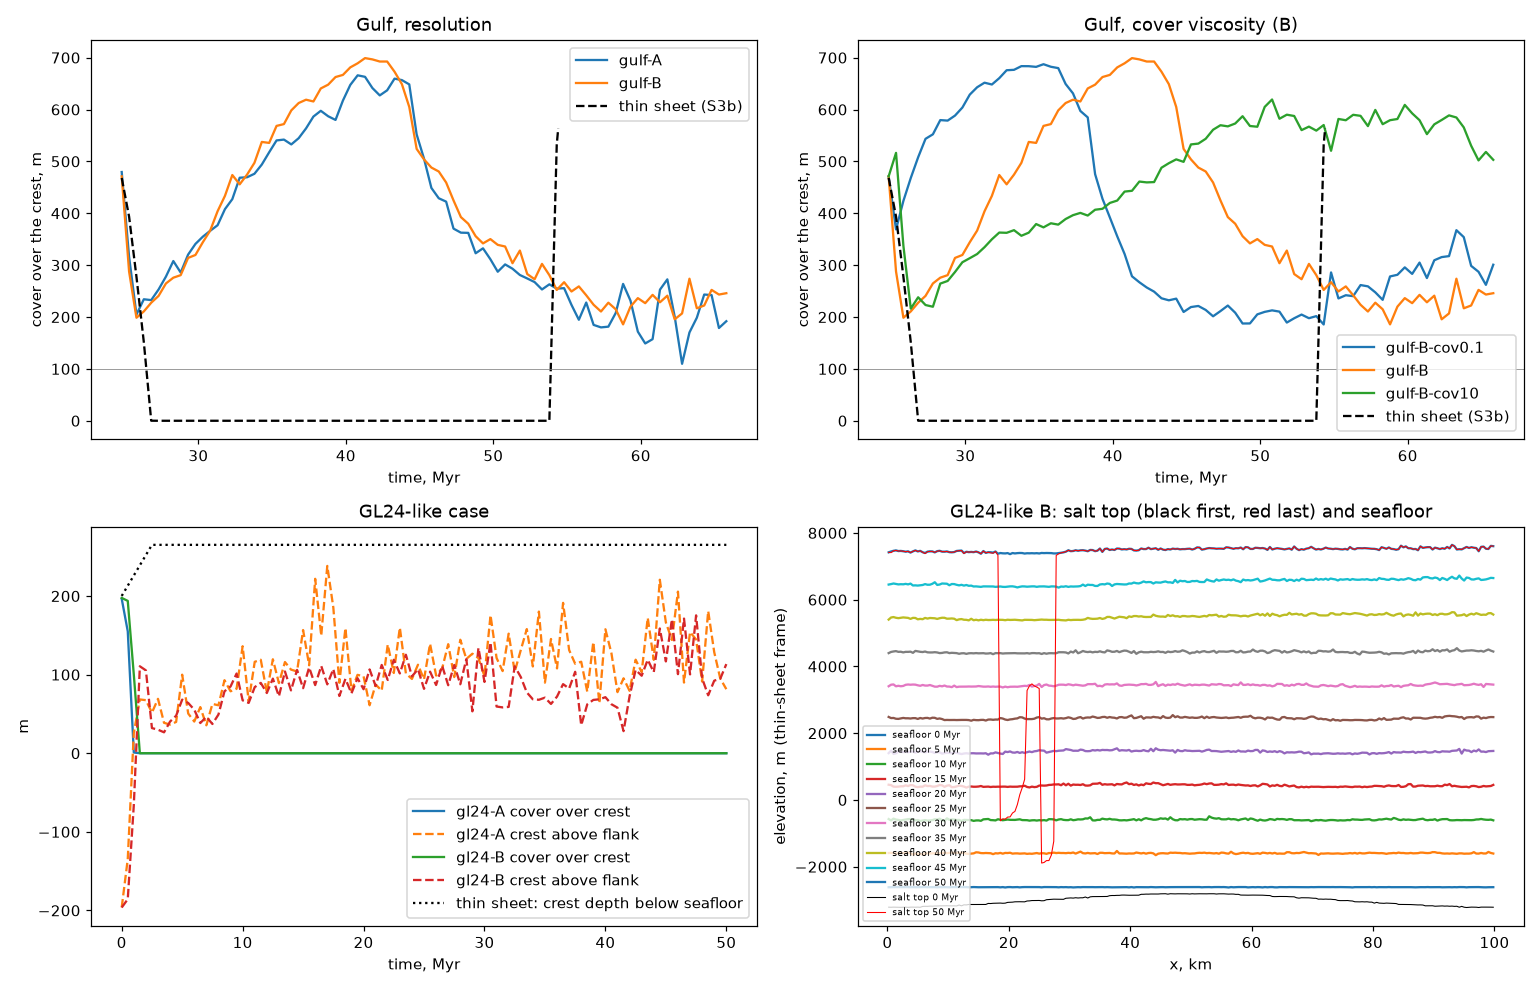
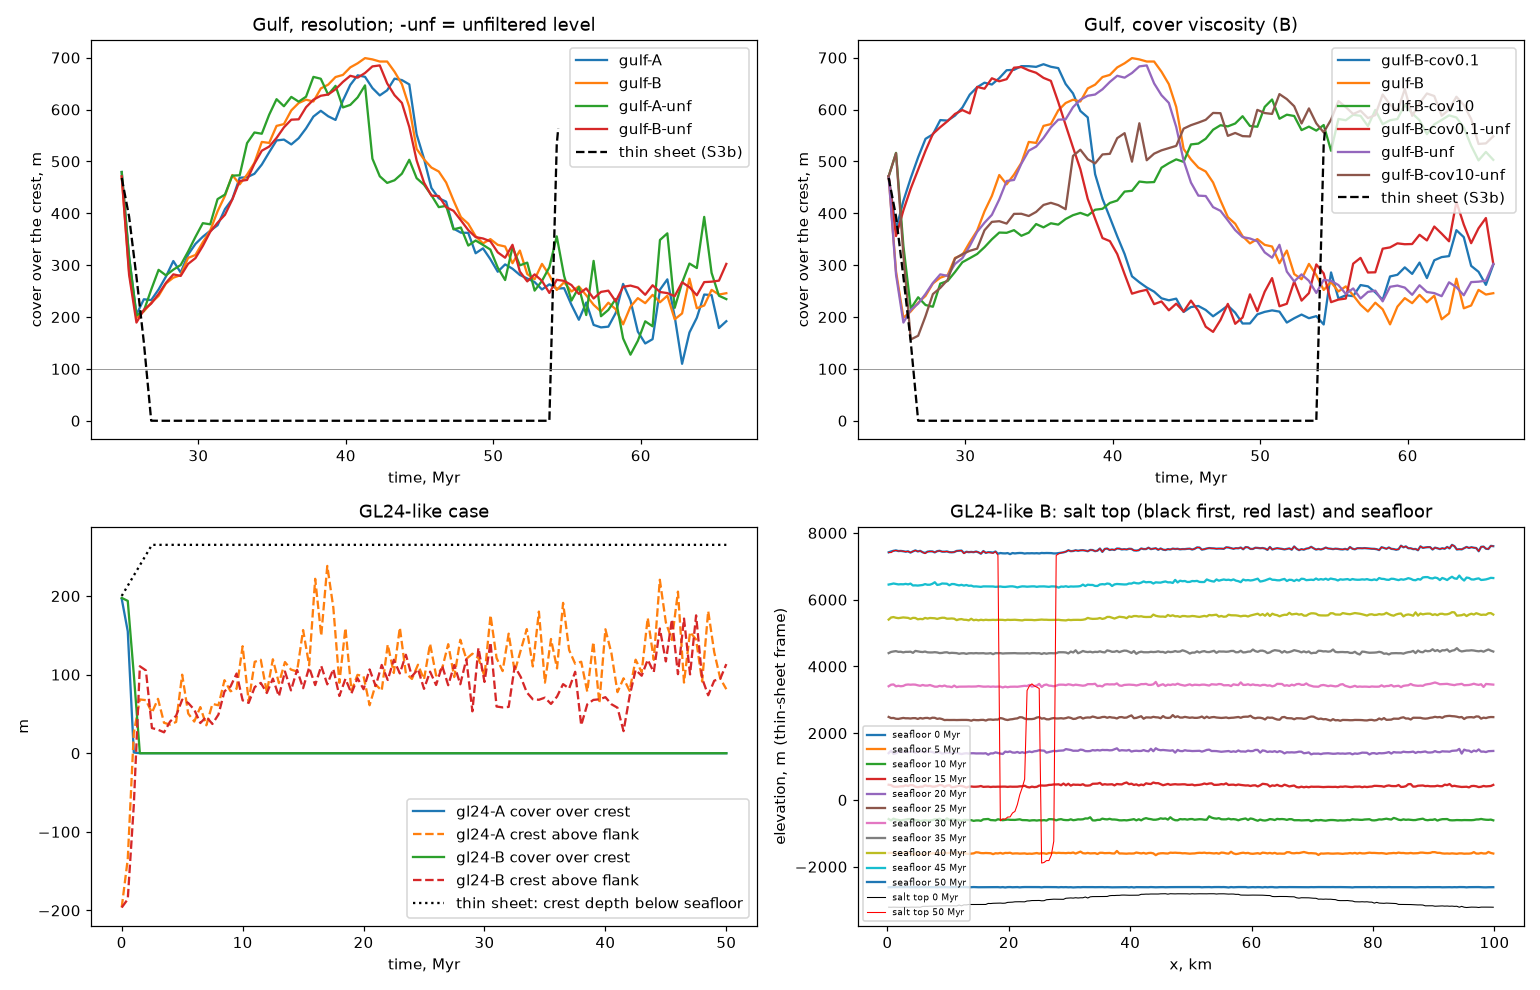
feat(spike-004): unfiltered-level reruns, thin-sheet vs Stokes table, answer and M3b C/D recommendation

diff --git a/spikes/004-stokes-check/table.js b/spikes/004-stokes-check/table.js
@@ -1,0 +1,30 @@
+// Table for the README: cover over the tracked crest (m), thin sheet vs Stokes runs, at chosen times.  node table.js
+const fs = require('fs'), path = require('path'), os = require('os');
+const SCR = process.env.S4_SCRATCH || path.join(os.tmpdir(), 'strata-s4');
+const load = (n) => { const p = path.join(SCR, 'out-' + n + '.json'); return fs.existsSync(p) ? JSON.parse(fs.readFileSync(p)) : null; };
+const times = [24.8, 26.8, 30, 40, 50, 54, 60, 66];
+const C = require('../003-passive-diapir/s4-case.json').decisiveCase;
+const near = (series, t, key) => { const r = series.reduce((b, q) => (Math.abs(q.tMyr - t) < Math.abs(b.tMyr - t) ? q : b)); return Math.abs(r.tMyr - t) <= 0.3 ? r[key] : null; };
+const f = (v) => (v === null || v === undefined ? '-' : Math.round(v));
+const groups = [
+  ['Gulf, filtered level, cover x1', ['gulf-A', 'gulf-B']],
+  ['Gulf, UNFILTERED level, cover x1', ['gulf-A-unf', 'gulf-B-unf']],
+  ['Gulf, filtered level, cover x10', ['gulf-A-cov10', 'gulf-B-cov10']],
+  ['Gulf, UNFILTERED level, cover x10', ['gulf-A-cov10-unf', 'gulf-B-cov10-unf']],
+  ['Gulf, filtered level, cover x0.1', ['gulf-A-cov0.1', 'gulf-B-cov0.1']],
+  ['Gulf, UNFILTERED level, cover x0.1', ['gulf-A-cov0.1-unf', 'gulf-B-cov0.1-unf']],
+];
+console.log('| run | ' + times.join(' | ') + ' | min cover 26-66 Myr | first t cover<50 | burial t |');
+console.log('|' + '---|'.repeat(times.length + 4));
+console.log('| thin sheet | ' + times.map((t) => f(near(C.aggradationHistory.series, t, 'coverM'))).join(' | ') + ' | 0 | 26.8 | 54.3 |');
+for (const [title, names] of groups) {
+  console.log('| **' + title + '** |' + ' |'.repeat(times.length + 3));
+  for (const n of names) {
+    const o = load(n); if (!o) { console.log('| ' + n + ' | missing |'); continue; }
+    const s = o.series, last = s[s.length - 1].tMyr;
+    const mid = s.filter((r) => r.tMyr >= 26 && r.coverM !== undefined);
+    const minc = Math.min(...mid.map((r) => r.coverM)), minz = Math.min(...mid.map((r) => r.zoneMinCoverM));
+    const a = o.analysis;
+    console.log('| ' + n + ' ' + o.cfg.nx + 'x' + o.cfg.ny + ' | ' + times.map((t) => (t > last + 0.3 ? '-' : f(near(s, t, 'coverM')))).join(' | ') + ' | ' + f(minc) + ' (zone ' + f(minz) + ') | ' + (a.tExposedMyr ?? 'none') + ' | ' + (a.tBuriedMyr ?? 'none') + ' |');
+  }
+}

diff --git a/spikes/004-stokes-check/runall-unf.js b/spikes/004-stokes-check/runall-unf.js
@@ -1,0 +1,12 @@
+'use strict';
+// Launch the unfiltered-level Gulf runs in parallel: node runall-unf.js  (sets S4_UNFILT=1, tag -unf)
+const { spawn } = require('child_process');
+const path = require('path');
+const SCR = process.env.S4_SCRATCH || path.join(require('os').tmpdir(), 'strata-s4');
+const jobs = [['A', '1'], ['B', '1'], ['A', '10'], ['B', '10'], ['A', '0.1'], ['B', '0.1']];
+let left = jobs.length;
+for (const [r, cf] of jobs) {
+  const out = require('fs').openSync(path.join(SCR, `run_unf_${r}_${cf}.txt`), 'w');
+  const p = spawn(process.execPath, [path.join(__dirname, 'cases.js'), 'gulf', r, cf], { env: { ...process.env, S4_UNFILT: '1', S4_TAG: '-unf', S4_SCRATCH: SCR }, stdio: ['ignore', out, out] });
+  p.on('exit', (c) => { console.log('done', r, cf, 'exit', c); if (--left === 0) console.log('all done'); });
+}

diff --git a/spikes/004-stokes-check/cases.js b/spikes/004-stokes-check/cases.js
@@ -46,7 +46,7 @@ function gulfCase(res, coverFactor) {
   const lev = fr.frames.map((f) => {
     const drop = b0 - f.b.slice(colIdx0, colIdx1 + 1).reduce((s, v) => s + v, 0) / cols.length;
     const out = [];
-    for (let i = colIdx0; i <= colIdx1; i++) { const w = []; for (let q = Math.max(0, i - 5); q <= Math.min(f.H.length - 1, i + 5); q++) w.push(f.H[q]); out.push(median(w) + drop); }
+    for (let i = colIdx0; i <= colIdx1; i++) { const w = []; for (let q = Math.max(0, i - 5); q <= Math.min(f.H.length - 1, i + 5); q++) w.push(f.H[q]); out.push((process.env.S4_UNFILT ? f.H[i] : median(w)) + drop); }   // S4_UNFILT=1: level is the raw thin-sheet seafloor (no median filter)
     return { t: f.tMyr, z: out, drop };
   });
   let zmax = -1e9, zmin = 1e9;

diff --git a/spikes/004-stokes-check/plot.py b/spikes/004-stokes-check/plot.py
@@ -11,7 +11,7 @@ def load(n):
 fig, ax = plt.subplots(2, 2, figsize=(14, 9))
 # Gulf: cover over the crest and relief
 g = load('gulf-B') or load('gulf-A')
-for k, (names, title) in enumerate([(['gulf-A', 'gulf-B'], 'Gulf, resolution'), (['gulf-B-cov0.1', 'gulf-B', 'gulf-B-cov10'], 'Gulf, cover viscosity (B)')]):
+for k, (names, title) in enumerate([(['gulf-A', 'gulf-B', 'gulf-A-unf', 'gulf-B-unf'], 'Gulf, resolution; -unf = unfiltered level'), (['gulf-B-cov0.1', 'gulf-B', 'gulf-B-cov10', 'gulf-B-cov0.1-unf', 'gulf-B-unf', 'gulf-B-cov10-unf'], 'Gulf, cover viscosity (B)')]):
     a = ax[0][k]
     for n in names:
         o = load(n)

diff --git a/spikes/004-stokes-check/README.md b/spikes/004-stokes-check/README.md
@@ -12,8 +12,8 @@ from about 26.8 to 54 Myr and then buried? Everything here is offline node, neve
 - `dump_start.js`  runs the plain Gulf run of spike 003 (`gulfParams({exposed: 1})`, the run `s4-case.json` comes from) to tNear = 24.8 Myr
   and writes `start-gulf.json` (the shared starting state: basement, salt, seafloor, cover per column). It also writes a forcing file
   (seafloor and basement every 0.1 Myr) to the scratch folder, not committed.
-- `cases.js`  the two cases. `node cases.js gulf A|B [coverViscosityFactor]`, `node cases.js gl24 A|B`. Env: S4_SCRATCH, S4_CFL, S4_ETAW, S4_TEND, S4_MAXMIN, S4_TAG.
-- `summary.js`, `cmp.js`, `ser.js`, `plot.py` (needs matplotlib, `uv run --with matplotlib python plot.py`), `results-summary.txt`, `s4-stokes-check.png`.
+- `cases.js`  the two cases. `node cases.js gulf A|B [coverViscosityFactor]`, `node cases.js gl24 A|B`. Env: S4_SCRATCH, S4_CFL, S4_ETAW, S4_TEND, S4_MAXMIN, S4_TAG, S4_UNFILT (1 = raw thin-sheet seafloor as the sediment level, no median filter; `runall-unf.js` launches the six unfiltered Gulf runs).
+- `table.js` (the thin-sheet-against-Stokes table, output in `table-gulf.md`), `summary.js`, `cmp.js`, `ser.js`, `plot.py` (needs matplotlib, `uv run --with matplotlib python plot.py`), `results-summary.txt`, `s4-stokes-check.png`.
 
 ## Benchmarks (all pass, 12/12)
 
@@ -41,32 +41,127 @@ the sediment level. Sediment is never removed, and sediment density is Athy comp
 
 ## Results
 
-Cover over the tracked crest (m). The thin-sheet run says 0 m from 26.8 to 54 Myr (exposed), then about 560 m.
+All Gulf numbers below are the cover over the tracked crest (m of cover between the salt top and the seafloor at the crest), every
+run starting from the same 24.8 Myr section. "Filtered" is the first sedimentation law (11-column median of the thin-sheet seafloor);
+"UNFILTERED" is the thin-sheet seafloor itself as the sediment level (`S4_UNFILT=1`), the check asked for in review. A and B are the two
+resolutions (A 180x38 cells, dx 500 m, dy 250 m; B 270x57 cells, dx 333 m, dy 167 m). The thin-sheet series stops at 54.8 Myr in the
+case file, so 60 and 66 Myr are blank for it (the thin sheet is buried at about 560 m by then). Exposed means cover under 50 m, burial
+means cover over 100 m for 3 consecutive records after exposure (same rule as S3b). The "min cover" column is the smallest cover over
+the crest between 26 and 66 Myr; in brackets the smallest salt cover anywhere in the 262-285 km crest zone.
 
-Gulf, cover viscosity 1e18 as in the case file (rows: grid A 180x38, B 270x57):
-- both resolutions agree: cover drops to about 200-230 m at 26 Myr, rises to about 670-700 m at 40-43 Myr (the crest is pushed down relative to the seafloor), then falls to about 250 m by 54 Myr and stays 200-250 m to 66 Myr.
-- cover never falls below 110 m in the crest zone (minimum over the A run) or 184 m (B). No exposure at any time in the central cases.
-- Changing the advection Courant number from 0.5 to 1 gives the same picture with run-to-run scatter of about 50-100 m. The A runs with CFL 2 and 4 are noisier and are not used.
 
-Cover viscosity x10 and x0.1 (A and B): the time of the cover maximum moves (earlier for the weaker cover, later and flatter for the stronger),
-but no run holds exposure. Weak cover (x0.1, A) shows a brief exposure only at 60.3-61.3 Myr; strong cover (x10) touches exposure only at the end (60.8-61.3 Myr in the crest zone). These end-of-run touches are not stable between A and B, so treat them as noise.
+Reading the table:
 
-Salt area drift over the runs: 0.1 to 1.3 % (markers, free surface, reseeding), well below the effects reported.
+- No Stokes run holds the crest exposed. In 11 of 12 runs the cover over the crest never drops below 110 m (the 50 m "exposed" line is
+  not reached). The one exception is the filtered x0.1 A run: it touches 36 m in the crest zone and is flagged exposed at 60.3 to 61.3 Myr;
+  the B run at the same settings and both unfiltered x0.1 runs do not. The x10 runs show brief shallow touches somewhere in the crest zone
+  at the very end (filtered runs, zone minimum 19 to 30 m; unfiltered A 32 m; not at the tracked crest). I treat these as noise (see scatter below), not as exposure.
+- The thin sheet has 0 m from 26.8 to 54 Myr; Stokes has 225 to 255 m at 26.8 Myr, 310 to 360 m at 30 Myr and 600 to 670 m at 40 Myr
+  (cover viscosity x1, both level laws). There is a real burial peak near 40 Myr that the thin sheet does not have.
+- Unfiltered level versus median-filtered level: same picture within the scatter (min cover 127 to 214 m unfiltered against 110 to 186 m
+  filtered; cover at 40 Myr 604 to 653 m against 617 to 667 m). The median filter is not what buries the crest.
+- Resolution scatter, stated plainly. A and B disagree by up to 100 m for cover x1 (for example 172 against 236 m at 60 Myr, filtered),
+  by up to 220 to 280 m for cover x10 (filtered 349 against 567 m at 50 Myr, 345 against 609 m at 60 Myr) and by up to 230 m for x0.1
+  (filtered 62 against 296 m at 60 Myr). Changing the advection Courant number (0.5 to 1, run A) moves records by 50 to 100 m. So
+  individual values are good to about +-100 to 250 m and the timing of the cover peak moves with cover viscosity and run; the
+  conclusion is the absence of exposure, not any single number.
+- Finer grid does not make the crest shallower: the minimum cover goes up from A to B (110 to 186 m filtered, 127 to 214 m unfiltered). So
+  the 50 m threshold, which is smaller than one B cell (167 m), is not the reason exposure is missing; resolution would make B shallower
+  than A if it were.
+- Salt area drift over the Gulf runs: -0.2 to +1.3 %, small beside the 100 to 600 m effects.
+- Run times: A 14 to 19 min; B 81 to 119 min for the unfiltered runs (six runs sharing the PC) and 45 to 53 min for the filtered B runs
+  (fewer parallel jobs). The card's one hour guide was exceeded by the unfiltered B runs because of that sharing.
 
-GL24-like case (down-building, 200 m/Myr, 100 km box): the Stokes runs do not reproduce the thin-sheet crest depth of 265 m below the seafloor
-(thin-sheet). In Stokes the salt reaches the seafloor by about 1 Myr and stays there with a crest 30-230 m above the flank, with strong scatter between records
-(A 200x52, B 250x65). This case is a sanity check only; its set-up (initial salt thickness, how the level is placed) is mine and not yet checked against GL24.
+### Table: cover over the tracked crest (m), thin sheet against Stokes
 
-## Verdict (provisional, see open questions)
+Burial time is by the S3b rule (exposed at cover under 50 m, then buried at cover over 100 m for 3 records); "none" means the crest was never exposed.
 
-The thin-sheet "exposed from 26.8 to 54 Myr" is not supported by the Stokes run: the Stokes crest stays buried under 110-700 m of cover, with a
-burial peak near 40 Myr that the thin sheet does not have. The thin-sheet result depends on dropping the cover over the crest to 0 once the
-salt is "extruded" and keeping it there, which in the Stokes run is replaced by lateral viscous flow of cover. That flow is controlled by the
-cover viscosity (a tuned parameter in the case file) and by the 11-column median filter of the sediment level, which I chose.
+| run | 24.8 | 26.8 | 30 | 40 | 50 | 54 | 60 | 66 | min cover 26-66 Myr | first t cover<50 | burial t |
+|---|---|---|---|---|---|---|---|---|---|---|---|
+| thin sheet | 468 | 0 | 0 | 0 | 0 | 0 | - | - | 0 | 26.8 | 54.3 |
+| **Gulf, filtered level, cover x1** | | | | | | | | | | | |
+| gulf-A 180x38 | 480 | 233 | 341 | 617 | 311 | 263 | 172 | 192 | 110 (zone 110) | none | none |
+| gulf-B 270x57 | 471 | 228 | 320 | 667 | 350 | 281 | 236 | 246 | 186 (zone 211) | none | none |
+| **Gulf, UNFILTERED level, cover x1** | | | | | | | | | | | |
+| gulf-A-unf 180x38 | 480 | 253 | 355 | 604 | 330 | 296 | 154 | 235 | 127 (zone 154) | none | none |
+| gulf-B-unf 270x57 | 471 | 226 | 314 | 653 | 346 | 246 | 257 | 302 | 214 (zone 214) | none | none |
+| **Gulf, filtered level, cover x10** | | | | | | | | | | | |
+| gulf-A-cov10 180x38 | 480 | 188 | 311 | 356 | 349 | 339 | 345 | 349 | 165 (zone 30) | none | none |
+| gulf-B-cov10 270x57 | 471 | 238 | 306 | 420 | 567 | 559 | 609 | 503 | 216 (zone 19) | none | none |
+| **Gulf, UNFILTERED level, cover x10** | | | | | | | | | | | |
+| gulf-A-cov10-unf 180x38 | 480 | 211 | 341 | 474 | 590 | 431 | 365 | 409 | 174 (zone 32) | none | none |
+| gulf-B-cov10-unf 270x57 | 471 | 164 | 321 | 515 | 599 | 573 | 640 | 548 | 157 (zone 66) | none | none |
+| **Gulf, filtered level, cover x0.1** | | | | | | | | | | | |
+| gulf-A-cov0.1 180x38 | 480 | 541 | 586 | 343 | 115 | 184 | 62 | 243 | 36 (zone 36) | 60.3 | 61.3 |
+| gulf-B-cov0.1 270x57 | 471 | 508 | 604 | 392 | 205 | 202 | 296 | 301 | 186 (zone 186) | none | none |
+| **Gulf, UNFILTERED level, cover x0.1** | | | | | | | | | | | |
+| gulf-A-cov0.1-unf 180x38 | 480 | 522 | 612 | 302 | 261 | 236 | 365 | 328 | 181 (zone 151) | none | none |
+| gulf-B-cov0.1-unf 270x57 | 471 | 484 | 599 | 346 | 211 | 301 | 340 | 303 | 171 (zone 165) | none | none |
+
+Chart: `s4-stokes-check.png` (cover over the crest against time, A and B, filtered and unfiltered, cover viscosity runs, and the GL24-like case).
+The table is produced by `node table.js` from the run outputs (`S4_SCRATCH` points at them); `table-gulf.md` is its output.
+
+### GL24-like case (down-building, 200 m/Myr, 100 km box, 50 Myr)
+
+Thin sheet: the crest sits 265 m below the seafloor from 10 Myr on and the source is drained by 3 Myr (thinnest salt 44 m at 10 Myr, 8 m at
+50 Myr). Stokes (A 200x52, B 250x65): salt reaches the seafloor by about 1 to 2 Myr and stays there to 50 Myr, standing 30 to 230 m above
+the flank seafloor (typical 70 to 110 m, with strong scatter between records), and the thick salt stays thick (snapshots: maximum 12.6 km
+at 50 Myr). Salt area drift is -2.2 % (A) and -0.5 % (B).
+
+What this does and does not tell us:
+- It does not validate the solver against GL24. The set-up (initial salt thickness, how the sediment level is placed) is mine and I did
+  not compare numbers with GL24. I have dropped the "sanity check" label.
+- It is a bias check on the Gulf result. The same solver, sticky water and level law keep a salt crest at the seafloor for 50 Myr when the
+  source is thick and sediment aggrades, so the Gulf burial is not something the solver produces for any crest.
+- It shows that the thin sheet is wrong in the other direction here: it drains the source and buries the crest, where Stokes keeps it up.
+  The two models disagree by a large margin in both cases, in opposite senses (thin sheet too exposed in the Gulf case, too buried in the
+  GL24-like case).
+- The -2.2 % drift comes from the pinched salt (minimum thickness 0 to 3 m in the snapshots at 5 to 20 Myr, below one cell), where markers
+  are lost and reseeded. It does not touch the Gulf runs, where the neighbour salt is about 4 km thick and the drift is -0.2 to +1.3 %. It
+  does not undermine the Gulf conclusion; it does mean the GL24-like Stokes numbers (relief 30 to 230 m) are not accurate to better than
+  the scatter.
+
+## Answer
+
+Is the thin-sheet exposed crest (26.8 to 54 Myr in the Gulf case) geology or a thin-sheet artefact? Most likely an artefact of the thin
+sheet, at medium to high confidence for "not exposed for 27 Myr" and low to medium confidence for the actual cover history.
+
+Evidence for: 12 Stokes runs (A and B, filtered and unfiltered level, cover viscosity x1, x10, x0.1) hold the crest under at least 110 m of
+cover through the whole 26.8 to 54 Myr window (one filtered A run touches 36 m in the zone only at 60 Myr); the burial peak near 40 Myr
+of 600 to 670 m at cover x1 is not in the thin sheet at all; the minimum cover rises with resolution, so it is not a resolution limit;
+the same solver keeps a crest at the surface in the GL24-like case, so it is not biased to bury.
+
+Evidence against certainty: Newtonian viscous cover only (GL24 stress that cover viscosity matters and a brittle cover with faults could
+behave differently); one starting section; resolution scatter of 100 to 250 m between A and B at some times; the cover history (when the
+peak occurs, how deep it gets) is not converged, so only "buried, not exposed" is supported; plane strain; no dissolution.
+
+The Stokes crest is also not keeping pace with the seafloor in the Gulf case: it sits 110 to 670 m deep and falls behind the seafloor
+(relief against the flank is negative, down to about -490 to -640 m near the peak). So the answer to the card's question is neither
+of the two alternatives: not "buried within a few Myr after a long exposure", and not "keeps pace for tens of Myr".
+
+### What it means for M3b options C and D (recommendation only, John decides)
+
+- Gulf-type salt sheet (the case in the card): neither C nor D is needed to get the first-order answer. The thin sheet over-states
+  exposure, so a source feed into stems (C) would push the model further from Stokes there. If the product shows exposed crests, label
+  the exposed duration as an upper bound, or cap it (a rule that a crest cannot stay at zero cover for tens of Myr).
+- GL24-like down-building with a thick source: the thin sheet drains the source and under-states how long a diapir stays at the seafloor, so
+  C (a source feed into stems) is the cheap fix for that case, and only for that case.
+- D (a Stokes solver in the product) is the only option that gets both cases right from one model. It is a large step and the spike
+  shows the cost (minutes to an hour and more per run in node, no real-time use). My recommendation: neither C nor D for the Gulf
+  work now; take C only if GL24-style stem growth is a product goal; keep D as the long-term answer if both behaviours are needed.
+
+## Limits
+
+Plane strain; Newtonian salt and cover unless stated (no power-law run, the optional n = 5 run was not done); no dissolution; no
+faults or brittle failure in the cover; viscous cover; prescribed sediment level (from the thin-sheet run); sediment never removed (no
+erosion or slumping); compaction through an Athy density only; sticky-water free surface (water viscosity 1e16 Pa s, a tuned
+choice; the free-surface benchmark passes with it); marker-in-cell, so salt area drifts by up to 1.3 % (Gulf) and 2.2 % (GL24-like A);
+one start section; resolution scatter of 100 to 250 m.
 
 ## Open questions for John
 
-1. Is the median-filtered seafloor the right sedimentation law for the Stokes run? It removes narrow crests from the level, so it may over-bury the crest. A level that follows the unfiltered thin-sheet seafloor is the other option.
-2. The van Keken reference values come from a secondary source (see caveat).
-3. GL24-like check does not match the thin-sheet crest depth and has not been compared with GL24 itself.
-4. The Gulf run result (never exposed) depends on one starting state (single section). A second S4 case with a different window would tell whether it is general.
+1. The van Keken reference values (time 208.99, v_rms 0.0031) are from the Underworld example notebook, a secondary source; I tried a
+   second search for the 1997 paper and a primary table and did not find one that I could read. Check against the paper before citing.
+2. Is a brittle or plastic cover (GL24 mention it) a case you want checked? It would change the conclusion if the cover can open over
+   the crest.
+3. A second window or a second Gulf crest would test whether this is general (one start section here).

diff --git a/spikes/004-stokes-check/table-gulf.md b/spikes/004-stokes-check/table-gulf.md
@@ -1,0 +1,21 @@
+| run | 24.8 | 26.8 | 30 | 40 | 50 | 54 | 60 | 66 | min cover 26-66 Myr | first t cover<50 | burial t |
+|---|---|---|---|---|---|---|---|---|---|---|---|
+| thin sheet | 468 | 0 | 0 | 0 | 0 | 0 | - | - | 0 | 26.8 | 54.3 |
+| **Gulf, filtered level, cover x1** | | | | | | | | | | | |
+| gulf-A 180x38 | 480 | 233 | 341 | 617 | 311 | 263 | 172 | 192 | 110 (zone 110) | none | none |
+| gulf-B 270x57 | 471 | 228 | 320 | 667 | 350 | 281 | 236 | 246 | 186 (zone 211) | none | none |
+| **Gulf, UNFILTERED level, cover x1** | | | | | | | | | | | |
+| gulf-A-unf 180x38 | 480 | 253 | 355 | 604 | 330 | 296 | 154 | 235 | 127 (zone 154) | none | none |
+| gulf-B-unf 270x57 | 471 | 226 | 314 | 653 | 346 | 246 | 257 | 302 | 214 (zone 214) | none | none |
+| **Gulf, filtered level, cover x10** | | | | | | | | | | | |
+| gulf-A-cov10 180x38 | 480 | 188 | 311 | 356 | 349 | 339 | 345 | 349 | 165 (zone 30) | none | none |
+| gulf-B-cov10 270x57 | 471 | 238 | 306 | 420 | 567 | 559 | 609 | 503 | 216 (zone 19) | none | none |
+| **Gulf, UNFILTERED level, cover x10** | | | | | | | | | | | |
+| gulf-A-cov10-unf 180x38 | 480 | 211 | 341 | 474 | 590 | 431 | 365 | 409 | 174 (zone 32) | none | none |
+| gulf-B-cov10-unf 270x57 | 471 | 164 | 321 | 515 | 599 | 573 | 640 | 548 | 157 (zone 66) | none | none |
+| **Gulf, filtered level, cover x0.1** | | | | | | | | | | | |
+| gulf-A-cov0.1 180x38 | 480 | 541 | 586 | 343 | 115 | 184 | 62 | 243 | 36 (zone 36) | 60.3 | 61.3 |
+| gulf-B-cov0.1 270x57 | 471 | 508 | 604 | 392 | 205 | 202 | 296 | 301 | 186 (zone 186) | none | none |
+| **Gulf, UNFILTERED level, cover x0.1** | | | | | | | | | | | |
+| gulf-A-cov0.1-unf 180x38 | 480 | 522 | 612 | 302 | 261 | 236 | 365 | 328 | 181 (zone 151) | none | none |
+| gulf-B-cov0.1-unf 270x57 | 471 | 484 | 599 | 346 | 211 | 301 | 340 | 303 | 171 (zone 165) | none | none |
